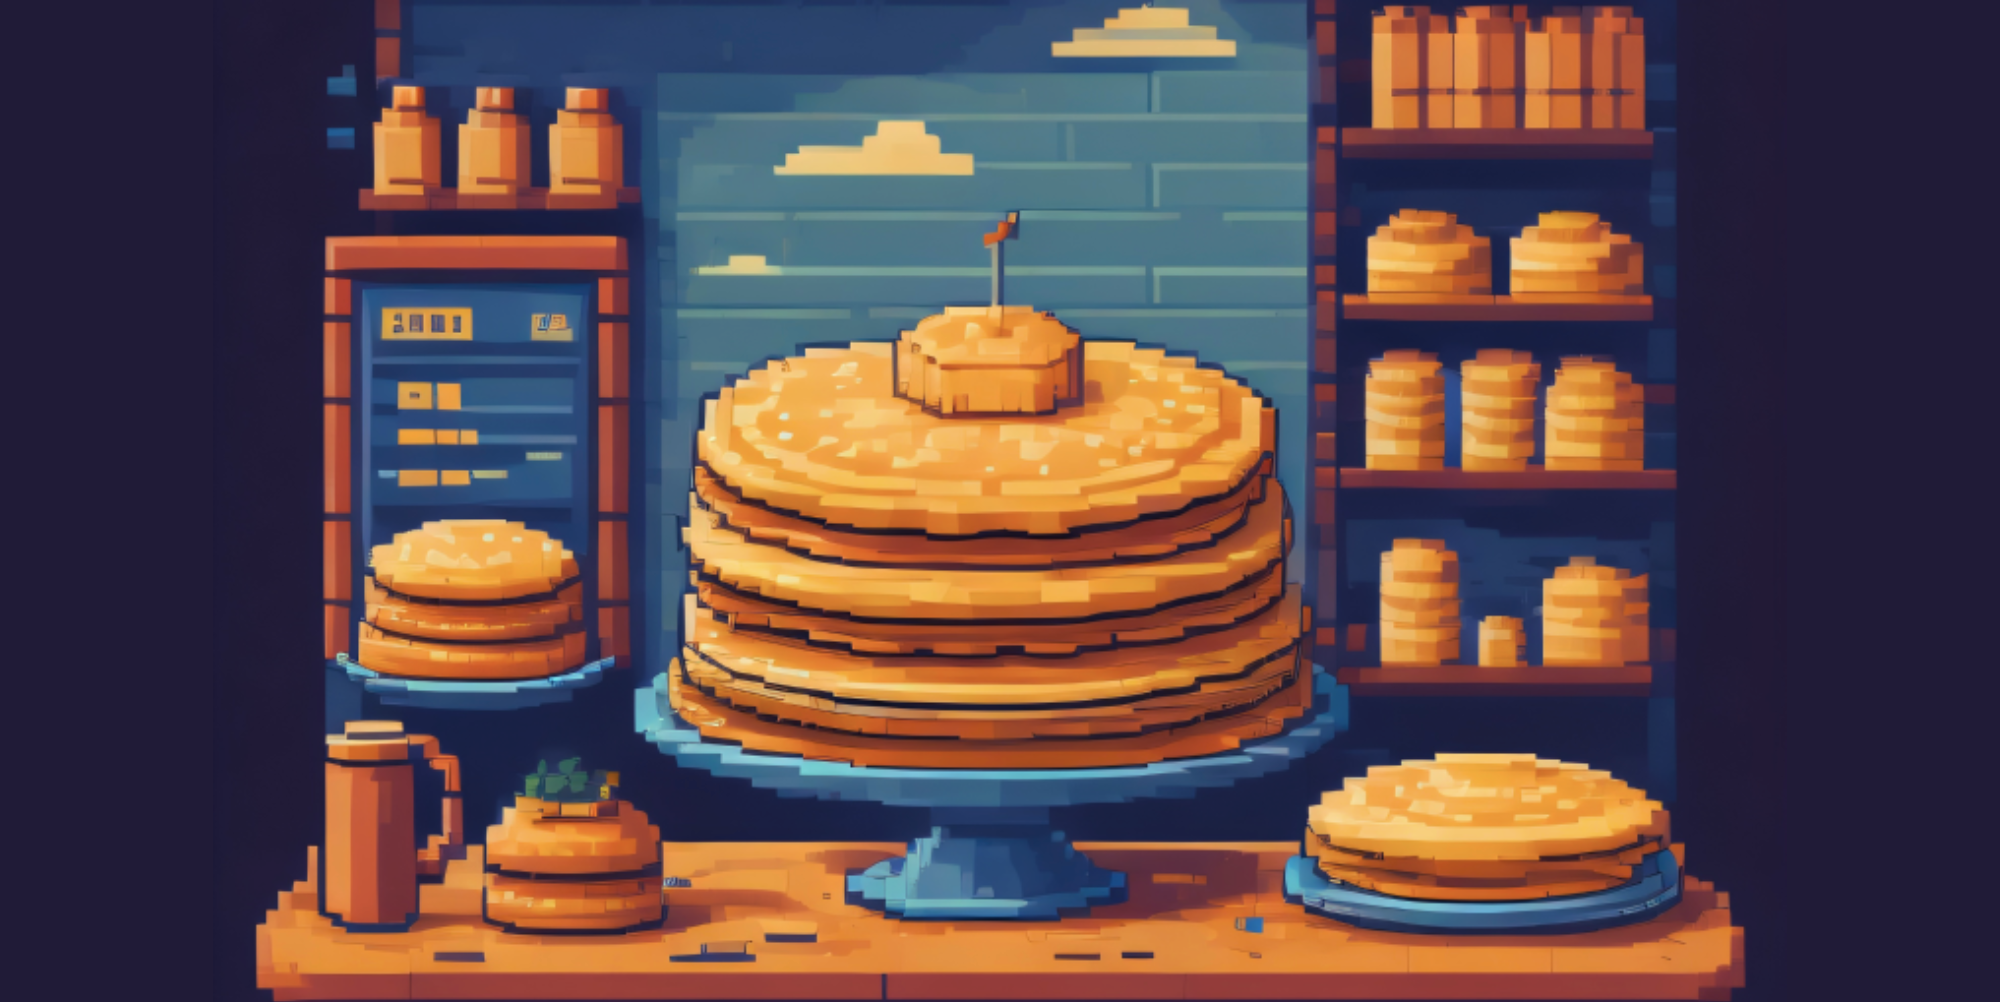
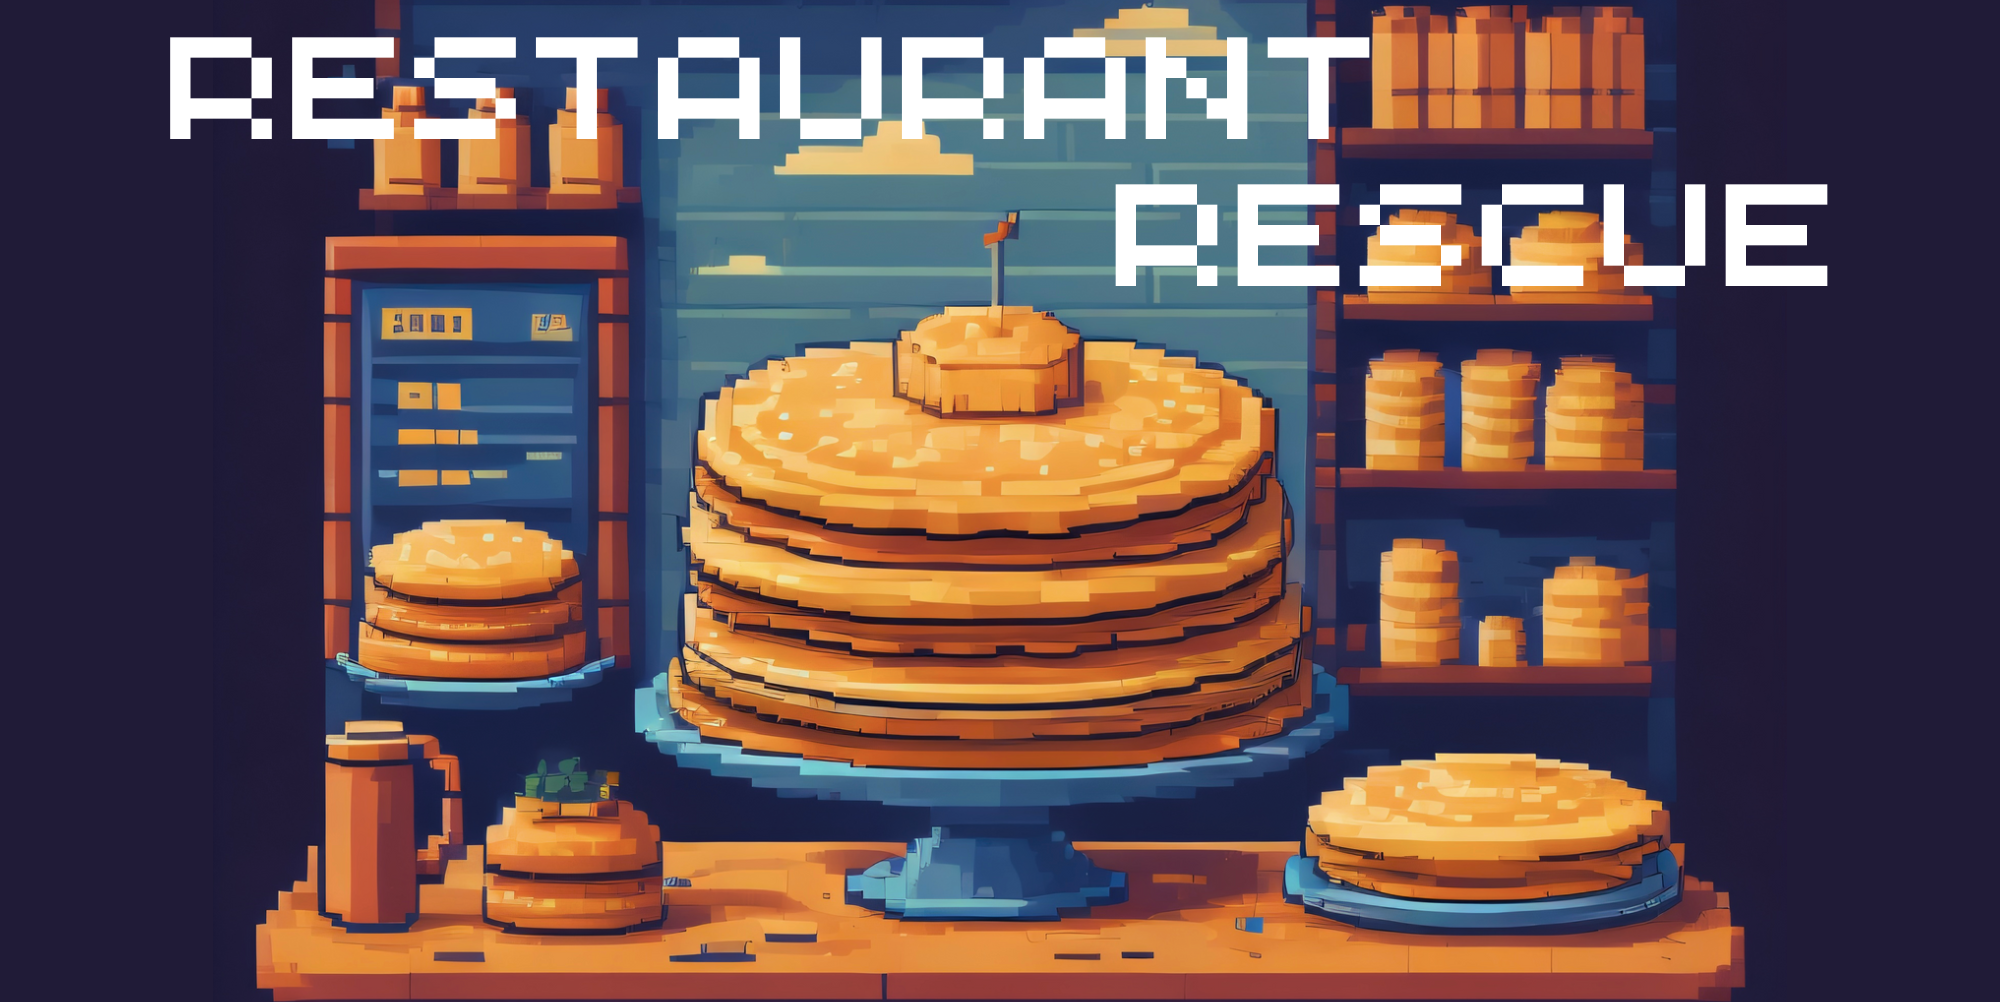
title and window header

diff --git a/main.py b/main.py
@@ -10,6 +10,7 @@ def first():
     pygame.init()
     W, H = 1200, 600
     screen = pygame.display.set_mode((W,H))
+    pygame.display.set_caption("Restaurant Rescue")
     tp.init(screen, tp.theme_human) #bind screen to gui elements and set theme
 
     bck = pygame.image.load("assets/welcome.png") #load some background pic for testing
@@ -75,7 +76,41 @@ while flag:
     except:
         break
 
-print(difficulty)
+start_game_flag = True
+
+def second_screen():
+    pygame.init()
+    W, H = 1200, 600
+    screen = pygame.display.set_mode((W,H))
+    pygame.display.set_caption("Restaurant Rescue")
+    tp.init(screen, tp.theme_human) #bind screen to gui elements and set theme
+
+    bck = pygame.image.load("assets/kitchen+counter_crop.png") #load some background pic for testing
+    bck = pygame.transform.smoothscale(bck, (W,H))
+    def before_gui(): #add here the things to do each frame before blitting gui elements
+        screen.blit(bck, (0,0)) #blit background pic
+    tp.call_before_gui(before_gui) #tells thorpy to call before_gui() before drawing gui.
+
+    def start_game():
+        global difficulty
+        print(1 / 0)
+
+
+    play_button = tp.Button("  Begin Evaluation!  ")
+    play_button.at_unclick = start_game
+
+    group = tp.Box([play_button])
+    group.center_on(screen)
+    final_group = tp.Group([group])
+    final_group.get_updater().launch()
+
+while start_game_flag:
+    try:
+        second_screen()
+    except:
+        break
+
+
 pygame.init()
 
 inventory = None
@@ -114,7 +149,7 @@ WINDOW_WIDTH = 1200
 WINDOW_HEIGHT = 600
 
 screen = pygame.display.set_mode((WINDOW_WIDTH, WINDOW_HEIGHT), pygame.RESIZABLE)
-pygame.display.set_caption("Restaurant Game")
+pygame.display.set_caption("Restaurant Rescue")
 pygame.display.set_icon(bg)
 
 clock = pygame.time.Clock()
